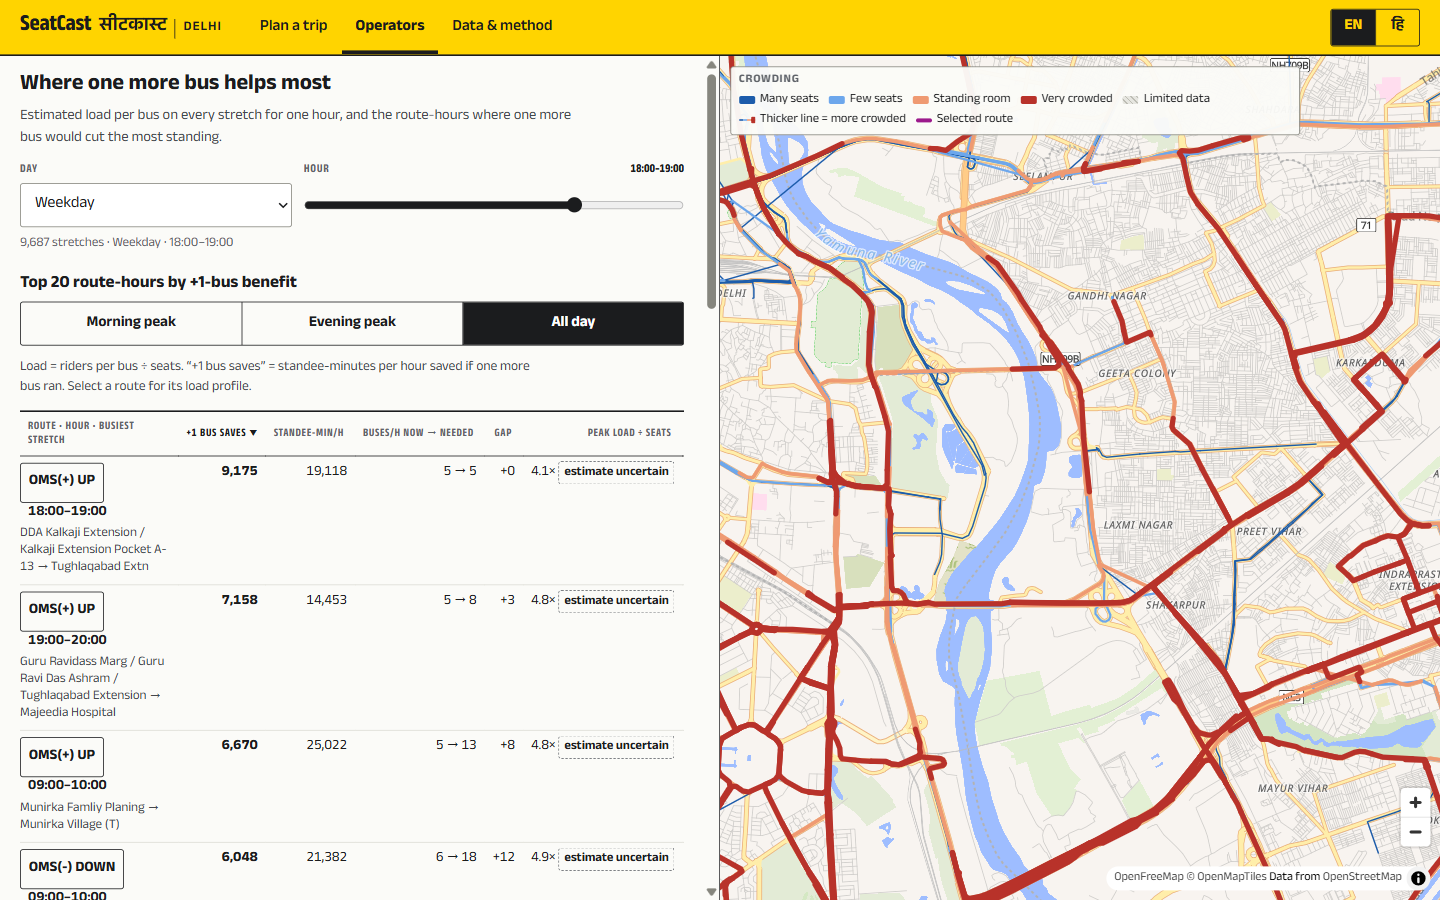
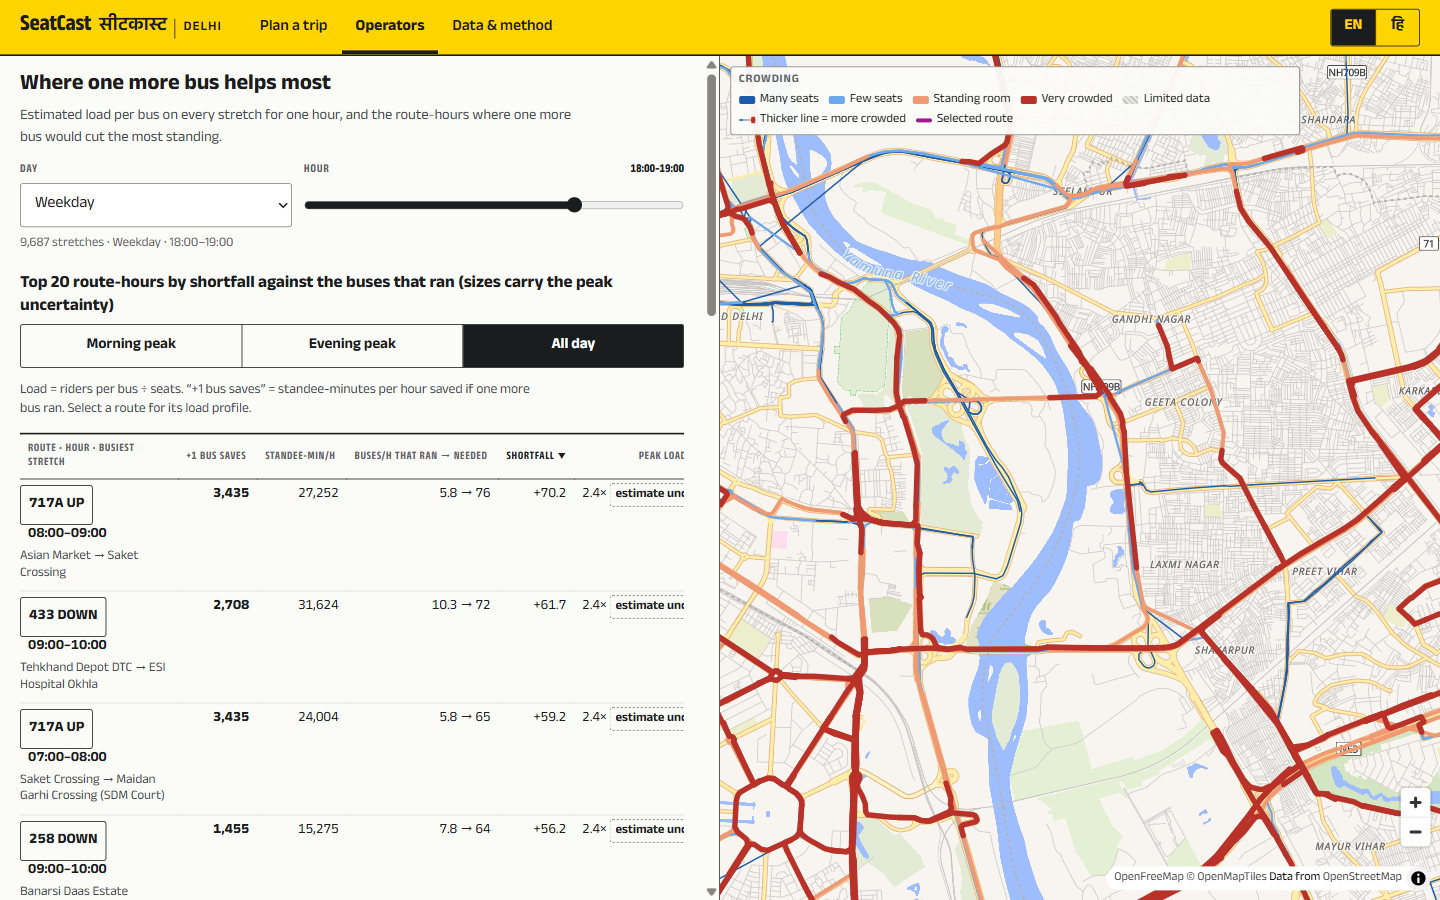
Operator view: buses needed from the capped load
Riders per hour at the busiest stretch now come from the capped load times the buses that ran, so demand beyond the 1.5x cap (the inflated, app-heavy peak) no longer drives the required frequency. Before: 717A UP 08:00 showed 5.8 buses/h ran vs 76 needed; now the top shortfalls are about 2x observed service (e.g. 502 DOWN 08:00: 12.2 vs 23). Uncapped cells are unchanged.

diff --git a/src/seatcast/load.py b/src/seatcast/load.py
@@ -228,7 +228,7 @@ def operator(x, cap, names):
     g = ['route_id', 'daytype', 'h']
     m = x.loc[x.groupby(g)['f'].idxmax()].set_index(g)
     o = x.groupby(g)[['st', 'st1']].sum()
-    o['P_max'] = m['E'] * m['f']
+    o['P_max'] = m['L'] * m['N_obs']  # riders/h at the busiest stretch from the capped load: demand beyond the cap is not trusted
     o['F_sched'], o['F_obs'] = m['N'], m['N_obs']
     o['F_req'] = np.ceil(o['P_max'] / (k['desired_load_factor'] * m['total'])).astype(int)
     o['gap'] = (o['F_req'] - o['F_sched']).clip(lower=0)

diff --git a/docs/CHECKS.md b/docs/CHECKS.md
@@ -131,7 +131,7 @@ Days flagged (beyond the configured deviation from the same-weekday median): non
 
 ![Load factor distribution](img/lf_hist.png)
 
-Publishable cells: 2,312,452 of 4,411,005. Load factor p10 / p50 / p90 / p99 = 0.241 / 0.785 / 2.427 / 2.432.
+Publishable cells: 2,312,449 of 4,411,005. Load factor p10 / p50 / p90 / p99 = 0.241 / 0.785 / 2.427 / 2.432.
 Over seats: 40.19% of cells. Over total capacity: 22.94%. Censored at 1.5 x total capacity: 12.338% of cells (these show as the top load factor, which is the censor cap and explains the repeated top values below).
 
 Routes with most censored cells:
@@ -166,7 +166,7 @@ Ten most crowded route-hours by standee-minutes:
 
 ## 10. Where estimates are weakest
 
-- Low-n cells: 1,567,113 of 4,411,005 cells have fewer than 5 sampled passengers and are shown as limited data. Of the publishable cells, confidence is high 18.83%, medium 39.23%, low 41.94%.
+- Low-n cells: 1,567,116 of 4,411,005 cells have fewer than 5 sampled passengers and are shown as limited data. Of the publishable cells, confidence is high 18.83%, medium 39.23%, low 41.94%.
 - Schedule gaps: 531,440 cells carry passengers but no scheduled bus (2.62% of passengers).
 - Hours with the highest low-confidence share: 4:00 (59%), 0:00 (56%), 23:00 (53%).
 
@@ -196,21 +196,21 @@ Per hour of day, publishable cells:
 | 4 | 5,451 | 59% | 16.0 |
 | 5 | 33,300 | 49% | 22.8 |
 | 6 | 83,900 | 41% | 28.7 |
-| 7 | 136,632 | 40% | 40.5 |
+| 7 | 136,631 | 40% | 40.5 |
 | 8 | 184,646 | 42% | 62.2 |
 | 9 | 197,540 | 44% | 69.9 |
 | 10 | 174,937 | 42% | 51.1 |
 | 11 | 143,194 | 38% | 33.8 |
 | 12 | 118,150 | 40% | 26.5 |
-| 13 | 100,358 | 42% | 23.3 |
+| 13 | 100,357 | 42% | 23.3 |
 | 14 | 97,212 | 42% | 22.7 |
 | 15 | 103,892 | 41% | 24.7 |
 | 16 | 121,198 | 39% | 28.7 |
 | 17 | 147,804 | 40% | 37.7 |
 | 18 | 164,966 | 44% | 49.0 |
-| 19 | 159,178 | 45% | 51.5 |
-| 20 | 140,122 | 41% | 44.0 |
-| 21 | 107,800 | 41% | 34.2 |
+| 19 | 159,179 | 45% | 51.5 |
+| 20 | 140,121 | 41% | 44.0 |
+| 21 | 107,799 | 41% | 34.2 |
 | 22 | 63,963 | 45% | 25.6 |
 | 23 | 22,024 | 53% | 17.8 |
 
@@ -267,7 +267,7 @@ Published cells (flag none), weekday unless stated. Mean load per observed bus i
 | 4 | 3,151 | 29.7 | 32.5 | 12.2% |
 | 5 | 17,842 | 29.1 | 32.3 | 13.4% |
 | 6 | 42,508 | 29.6 | 32.9 | 14.5% |
-| 7 | 67,747 | 37.9 | 46.9 | 23.9% |
+| 7 | 67,748 | 37.9 | 46.9 | 23.9% |
 | 8 | 86,446 | 49.8 | 72.4 | 38.6% |
 | 9 | 88,824 | 54.3 | 81.8 | 44.7% |
 | 10 | 80,234 | 46.9 | 62.3 | 34.1% |
@@ -289,12 +289,12 @@ Crushed share by weekday cell flow quartile (f = digital passengers per day on t
 
 | quartile | f from | f to | cells | crushed share | low confidence |
 |---|---|---|---|---|---|
-| 1 | 0.25 | 0.60 | 282,551 | 0.7% | 75.0% |
+| 1 | 0.25 | 0.60 | 282,552 | 0.7% | 75.0% |
 | 2 | 0.60 | 1.40 | 282,551 | 8.8% | 2.5% |
 | 3 | 1.40 | 3.45 | 282,551 | 25.7% | 12.8% |
 | 4 | 3.45 | 122.25 | 282,551 | 63.0% | 42.2% |
 
-Of 2,312,452 published cells, 12.3% have raw load above 1.5 x total capacity and 7.3% above 2 x. 11.6% have fewer than one observed bus in the slot window (N_obs < 1). Censored cells: 12.3%; low confidence overall: 41.9%.
+Of 2,312,449 published cells, 12.3% have raw load above 1.5 x total capacity and 7.3% above 2 x. 11.6% have fewer than one observed bus in the slot window (N_obs < 1). Censored cells: 12.3%; low confidence overall: 41.9%.
 
 ## 14. Published-level stability
 
@@ -302,13 +302,13 @@ Level recomputed from week 1 and week 2 weekday flow (same N_obs, capacity and E
 
 | comparison | confidence | cells | same level | within one level |
 |---|---|---|---|---|
-| week 1 vs week 2 | all | 1,123,193 | 58.8% | 89.1% |
-| week 1 vs week 2 | low | 368,182 | 74.9% | 91.1% |
-| week 1 vs week 2 | medium | 444,839 | 49.1% | 84.3% |
-| week 1 vs week 2 | high | 310,172 | 53.5% | 93.7% |
-| odd vs even days (ceiling) | all | 1,123,193 | 62.5% | 92.4% |
-| odd vs even days (ceiling) | high | 310,172 | 57.3% | 95.6% |
-| odd vs even days (ceiling) | medium | 444,839 | 53.1% | 88.8% |
-| odd vs even days (ceiling) | low | 368,182 | 78.3% | 94.0% |
+| week 1 vs week 2 | all | 1,123,194 | 58.8% | 89.1% |
+| week 1 vs week 2 | low | 368,188 | 74.9% | 91.1% |
+| week 1 vs week 2 | high | 310,174 | 53.5% | 93.7% |
+| week 1 vs week 2 | medium | 444,832 | 49.1% | 84.3% |
+| odd vs even days (ceiling) | all | 1,123,194 | 62.5% | 92.4% |
+| odd vs even days (ceiling) | high | 310,174 | 57.3% | 95.6% |
+| odd vs even days (ceiling) | medium | 444,832 | 53.1% | 88.8% |
+| odd vs even days (ceiling) | low | 368,188 | 78.3% | 94.0% |
 
 Unstable routes: 794DOWN has rho 0.28 against the 0.7 threshold, so it is unstable (rank 3 by sampled passengers among the unstable routes).
